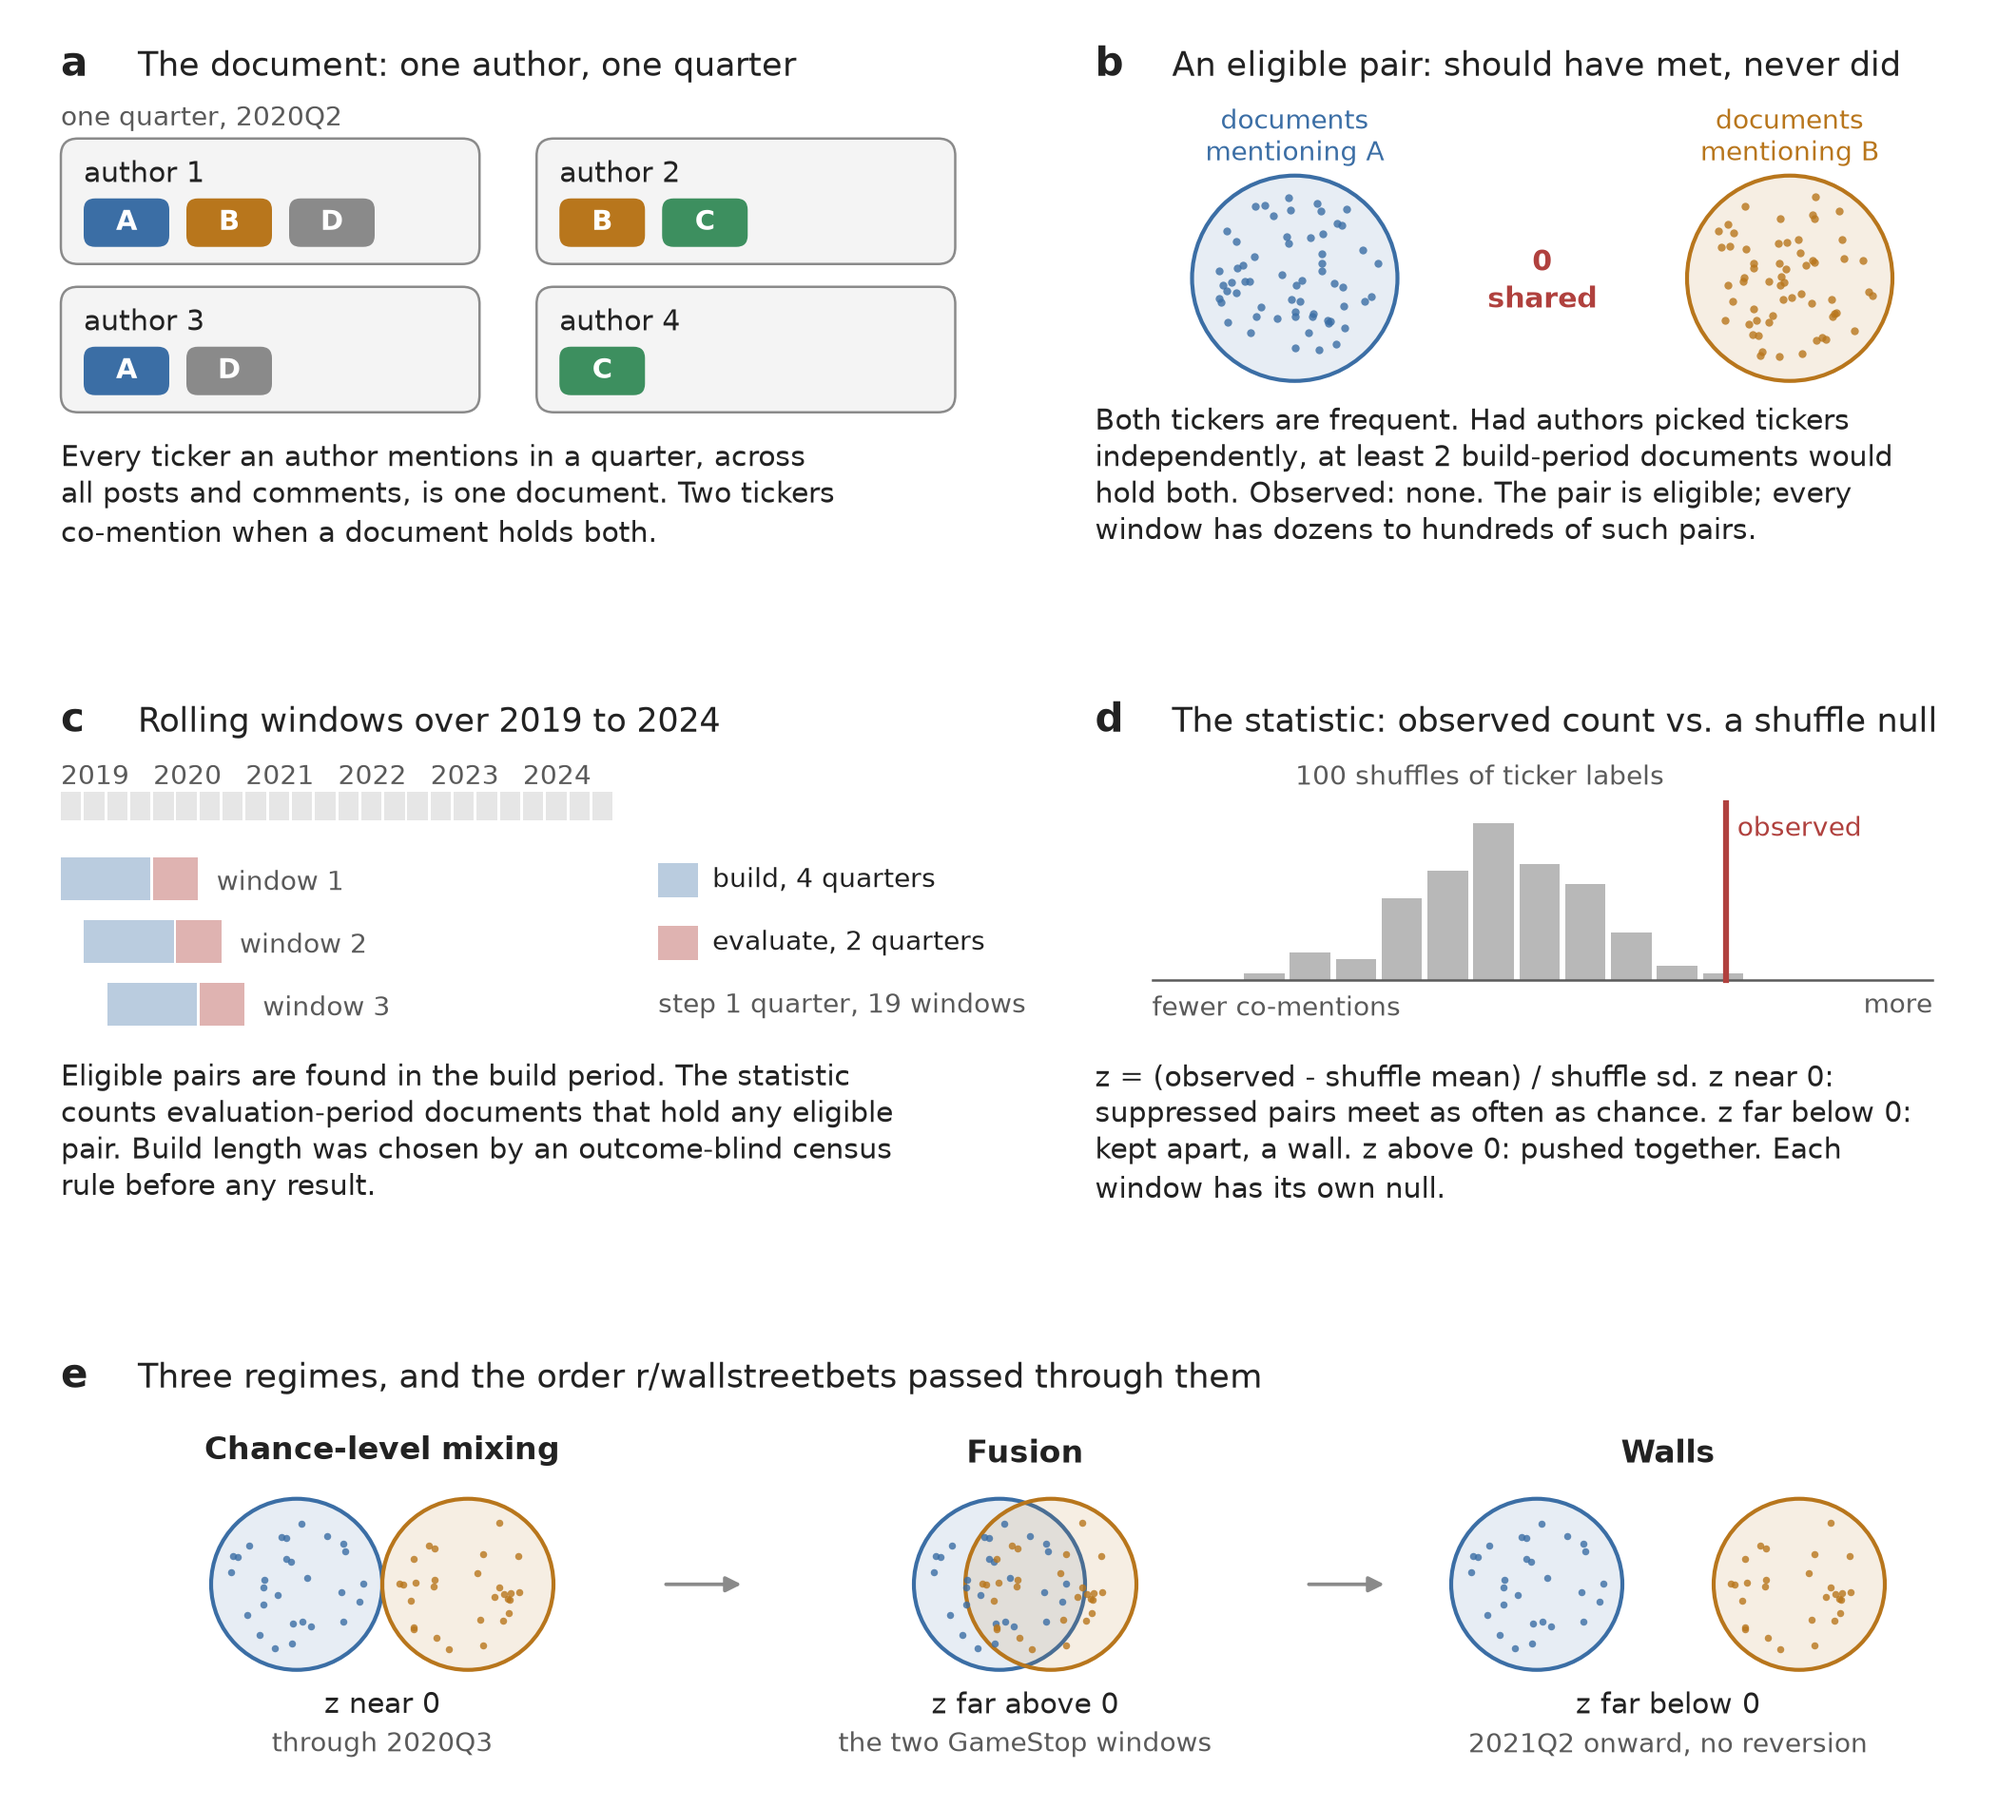
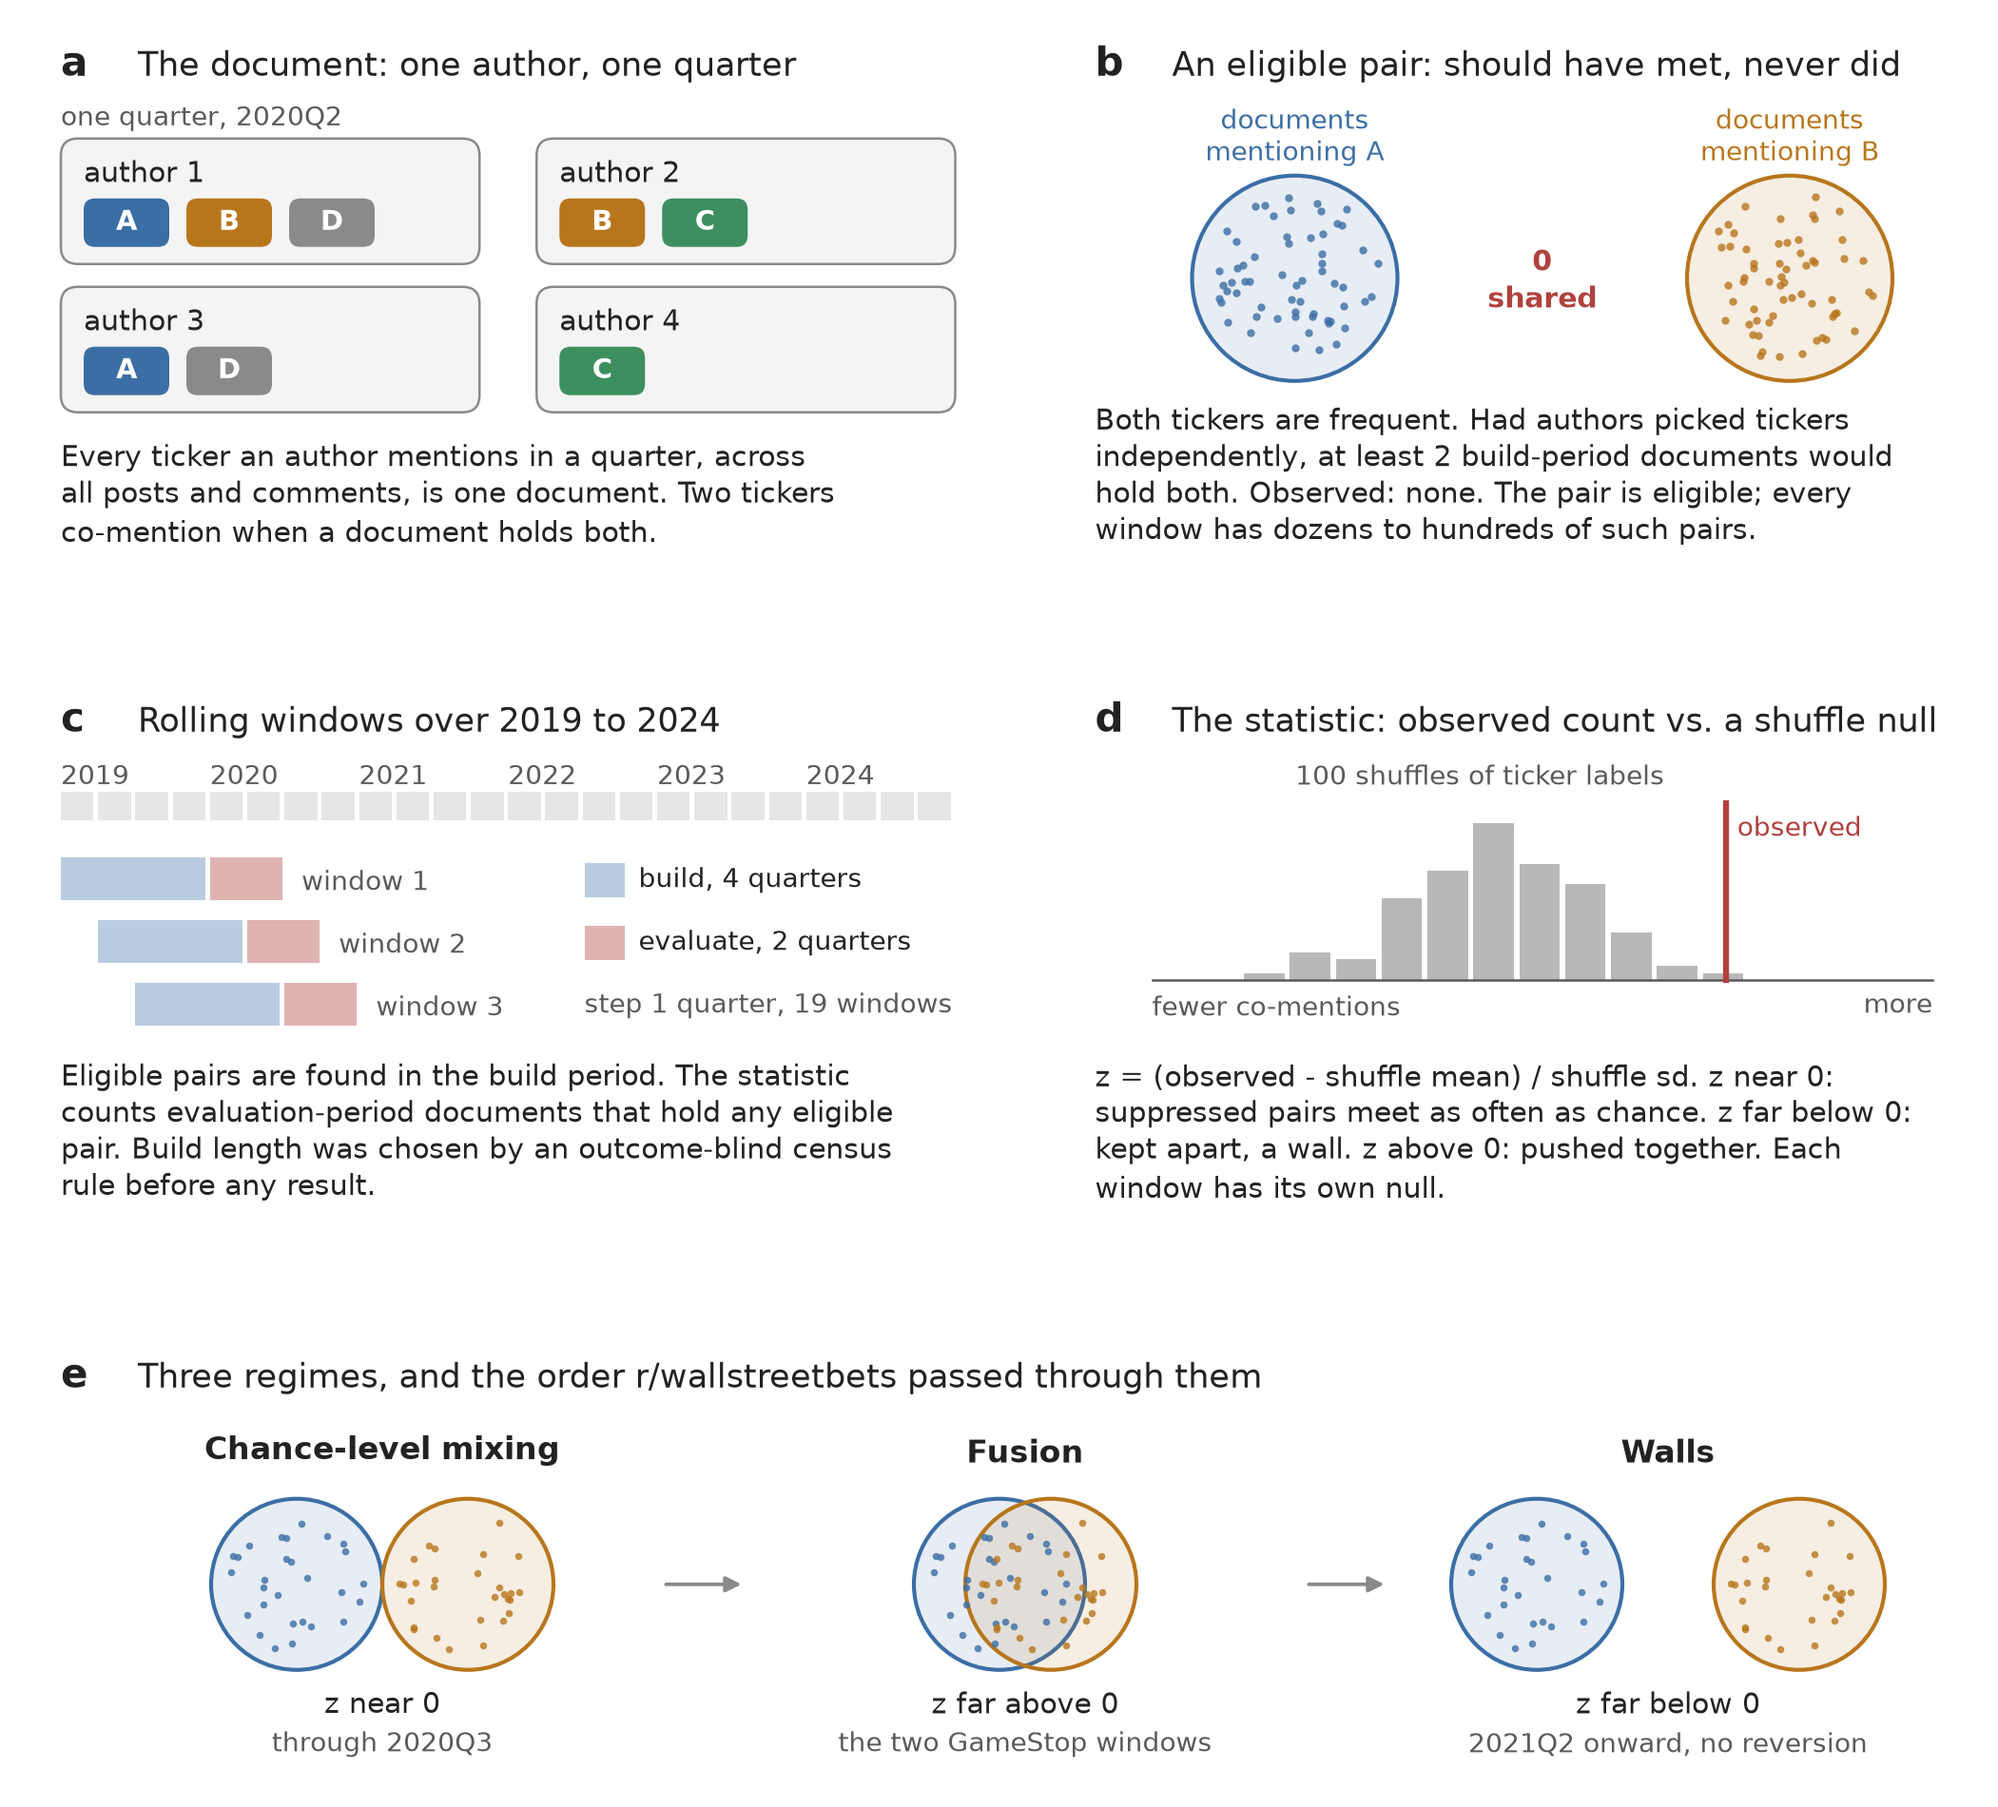
Paper 2 Figure 1, panel c: timeline strip spans the full column width; legend block kept inside the card (owner markup)

Changed region(s): [[0.0309, 0.4035, 0.495, 0.5897]]

diff --git a/eval/make_paper2_schematic.py b/eval/make_paper2_schematic.py
@@ -133,7 +133,7 @@ def panel_c(ax, box):
     x, y, w, h = box
     top = y + h
     n = 24
-    qw = (w * 0.62) / n
+    qw = w / n                      # strip spans the full content width
     strip_y = top - 0.12 - 0.10
     for i in range(n):
         ax.add_patch(Rectangle((x + i * qw, strip_y), qw * 0.88, 0.10,
@@ -150,7 +150,7 @@ def panel_c(ax, box):
                                fc=RED, alpha=0.40, ec="none"))
         text(ax, bx + 6 * qw + 0.06, ry - 0.08, f"window {k + 1}",
              size=T_SMALL, color=MUTED, va="center")
-    lx = x + w * 0.62 + 0.15
+    lx = x + w - 1.30               # legend block, right edge inside the card
     for k, (fc, a, s) in enumerate([(BLUE, 0.35, "build, 4 quarters"),
                                     (RED, 0.40, "evaluate, 2 quarters"),
                                     (None, 0, "step 1 quarter, 19 windows")]):
